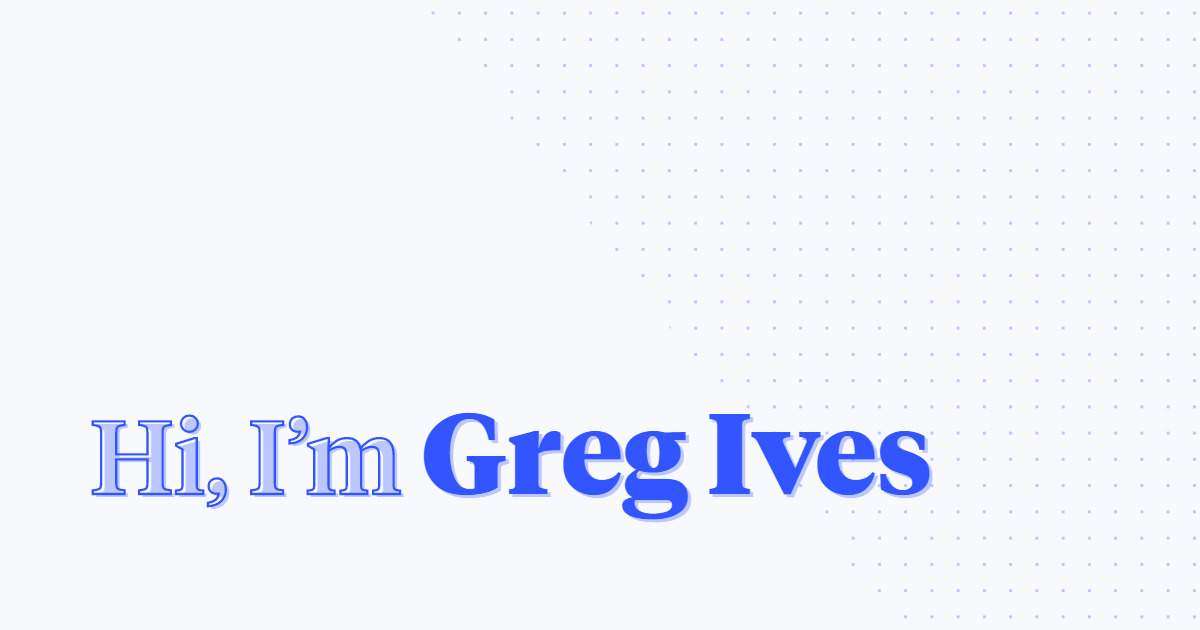
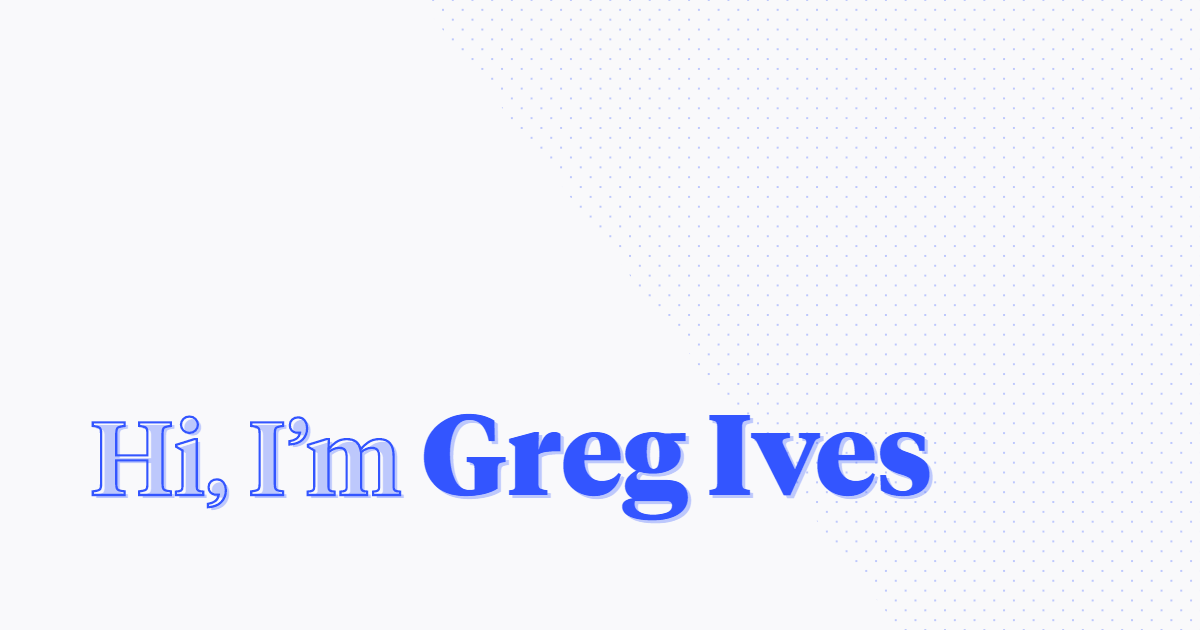
New background dots

diff --git a/assets/scss/_mixins.scss b/assets/scss/_mixins.scss
@@ -22,8 +22,12 @@
 @mixin dots($clip-path) {
   @supports (clip-path: polygon(0% 0%, 100% 0%, 100% 100%, 0% 100%)) {
     &::before {
-      background-image: radial-gradient($color__primary--muted 10%, transparent 10%);
-      background-size: 1rem 1rem;
+      $background-size: 0.75rem;
+      $background-dots: radial-gradient($color__primary--muted 0.05rem, transparent 0.05rem);
+
+      background-image: $background-dots, $background-dots;
+      background-size: $background-size $background-size;
+      background-position: 0 0, $background-size / 2 $background-size / 2;
       clip-path: $clip-path;
       content: '';
       height: 100%;

diff --git a/pages/about.vue b/pages/about.vue
@@ -33,22 +33,21 @@ export default {
 
 <style lang="scss">
 .about {
-  $clip-path: polygon(0% 10%, 200% 45%, 0% 35%);
+  $clip-path: polygon(0% 15%, 100% 20%, 100% 30%, 0% 35%);
   @include page;
   @include dots($clip-path);
 
   @media (min-width: $breakpoint--md) {
     $clip-path: polygon(
-      0% 10%,
+      0% 20%,
       30% 30%,
       30% 50%,
       0% 60%,
-      0% 80%,
-      20% 60%,
+      0% 70%,
+      30% 60%,
       40% 70%,
       30% 200%,
-      20% 60%,
-      0% 80%
+      0% 100%
     );
     @include dots($clip-path);
 

diff --git a/pages/contact.vue b/pages/contact.vue
@@ -159,7 +159,7 @@ export default {
 
 <style lang="scss">
 .contact {
-  $clip-path: polygon(100% 30%, 70% 25%, 50% 60%, 80% 100%, 100% 100%);
+  $clip-path: polygon(100% 30%, 80% 30%, 50% 60%, 80% 100%, 100% 100%);
   @include page;
   @include dots($clip-path);
 }

diff --git a/pages/blog/index.vue b/pages/blog/index.vue
@@ -55,7 +55,9 @@ export default {
 
 <style lang="scss">
 .blog {
+  $clip-path: polygon(100% 20%, 60% 30%, 80% 80%, 100% 90%);
   @include page;
+  @include dots($clip-path);
 }
 
 .blog__title {
